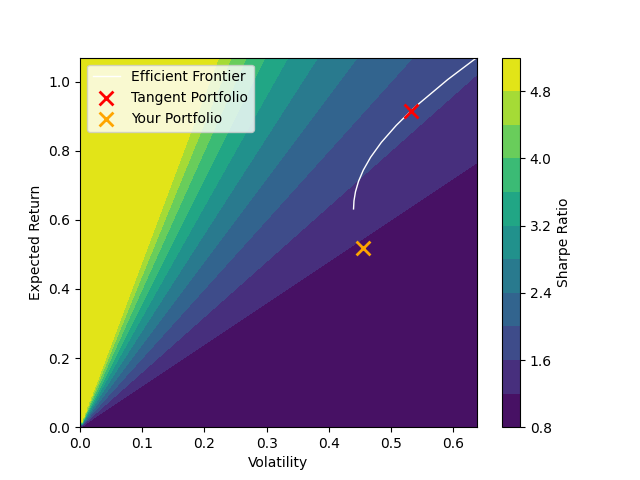
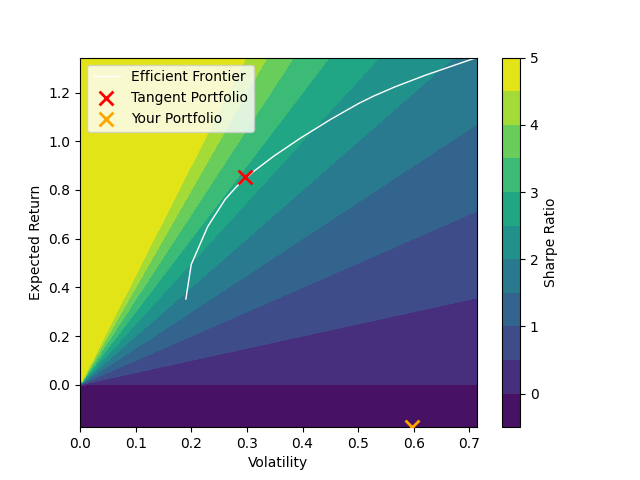
update todo

diff --git a/src/Plotters.py b/src/Plotters.py
@@ -3,10 +3,9 @@ import numpy as np
 import matplotlib.pyplot as plt
 from pathlib import Path
 
-def plot_frontier(frontier, optimal_p, default_p):
-    volatility = np.array([math.sqrt(v) for (v, _, _) in frontier])
-    returns = np.array([ret for (_, ret, _) in frontier])
-
+def plot_frontier(frontier, optimal_p, default_p, show = True, save = False):
+    volatility = np.array([v for (v, _) in frontier])
+    returns = np.array([ret for (_, ret) in frontier])
     # Values to crop plot
     min_x = min(0, min(optimal_p[0], default_p[0]))
     min_y = min(0, min(optimal_p[1], default_p[1]))
@@ -54,16 +53,21 @@ def plot_frontier(frontier, optimal_p, default_p):
     # Colorbar (Sharpe ratio index)
     cbar = plt.colorbar(contour)
     cbar.set_label("Sharpe Ratio")
+    if save:
+        save_fig(plt, file_name = "efficient_frontier")
+    if show:
+        plt.show()
+    else:
+        plt.close()
 
-    # Save to media/
-    save = input("Do you want to save the frontier figure? (y/n): ")
-    if save == "y":
-        save_fig(plt, default_name = "efficient_frontier")
-    plt.show()
 
-def save_fig(fig, default_name):
-    name = input(f"Enter file name to save (without extension) or press Enter for {default_name}.png: ").strip()
-    file_name = name if name != "" else default_name
+def save_fig(fig, file_name):
     root = Path(__file__).resolve().parents[1]
-    save_path = root / "media" / f"{file_name}.png"
+    base_path = root / "media"
+    save_path = base_path / f"{file_name}.png"
+    counter = 1
+    while save_path.exists():
+        save_path = base_path / f"{file_name}_{counter}.png"
+        counter += 1
     fig.savefig(save_path)
+    return save_path

diff --git a/src/Optimizer.py b/src/Optimizer.py
@@ -1,5 +1,6 @@
 from scipy.optimize import minimize
 import numpy as np
+import math
 # LOAD CONFIG CONSTANTS
 from config import RF, SHORT_ALLOWED, SHORT_COST, DEFAULT_L
 
@@ -193,9 +194,8 @@ def get_efficient_frontier(mu, sigma, short_allowed = True, L = 1.5, short_cost 
             short_cost = short_cost
         )
         res.append((
-            w.T @ sigma @ w,
+            math.sqrt(w.T @ sigma @ w),
             mu@w,
-            w
         ))
     return res
 

diff --git a/scripts/create_and_analyze_portfolio.py b/scripts/create_and_analyze_portfolio.py
@@ -52,7 +52,8 @@ optimal_p = (
     optimal_portfolio_stats.at[optimal_portfolio_stats.index[0], "Volatility"],
     optimal_portfolio_stats.at[optimal_portfolio_stats.index[0], "Expected Return"]
 )
-Plotters.plot_frontier(frontier, optimal_p, default_p)
+save = input("Do you want to save the frontier figure? (y/n): ")
+Plotters.plot_frontier(frontier, optimal_p, default_p, save = save)
 
 
 
